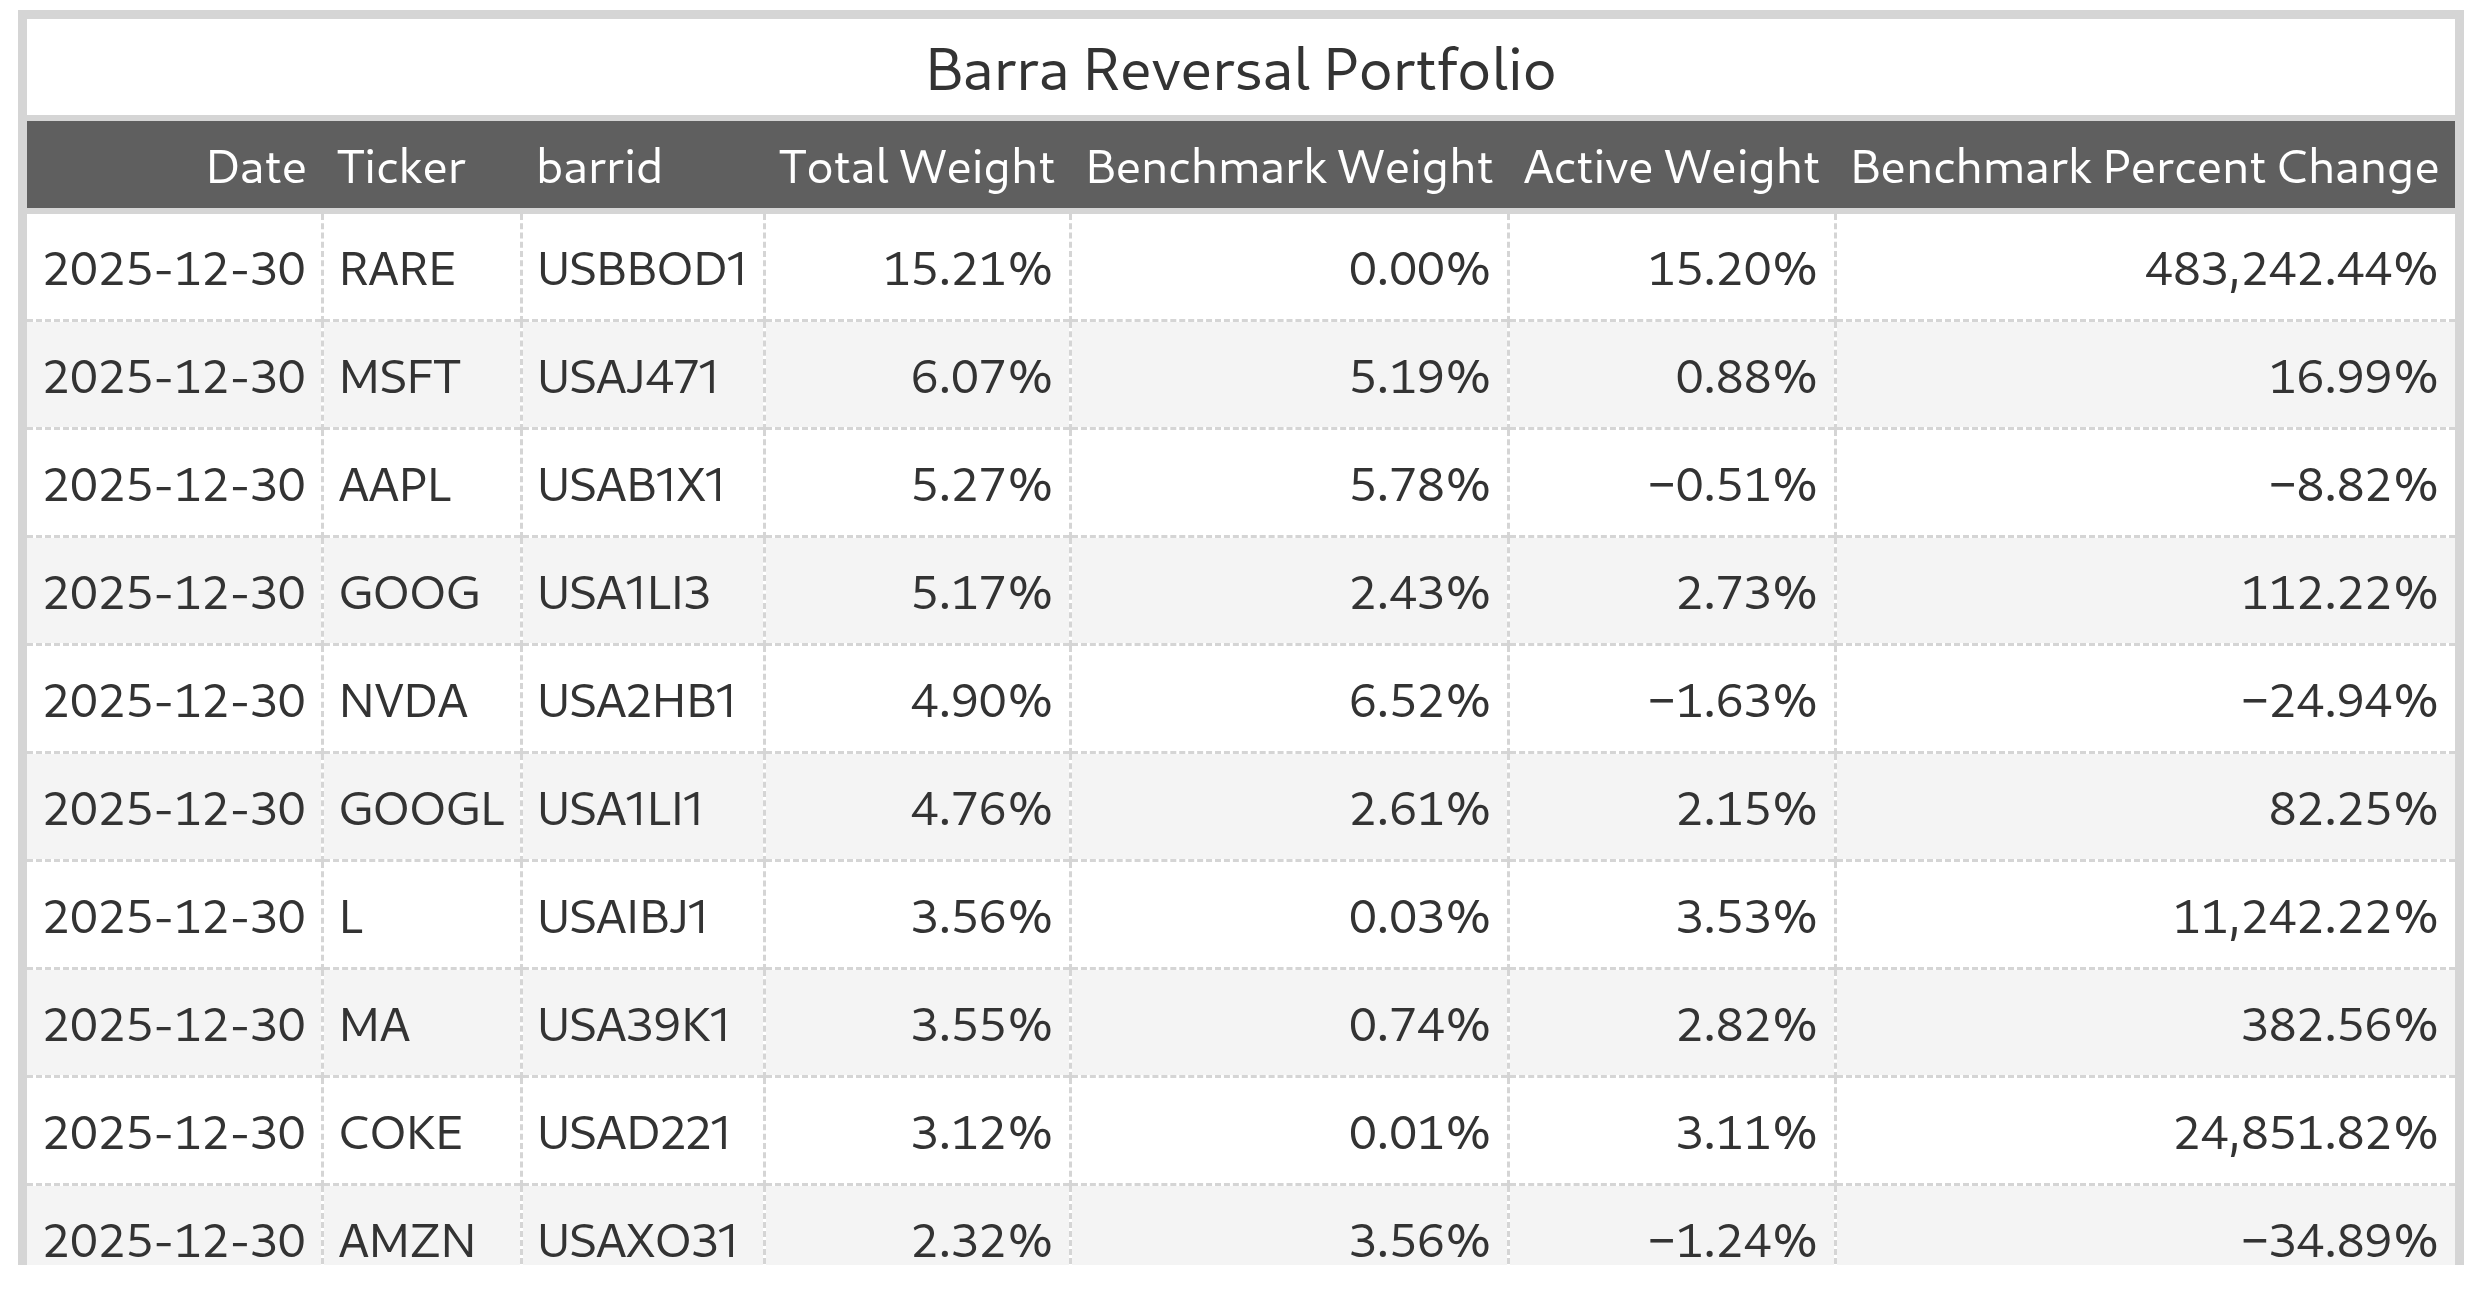
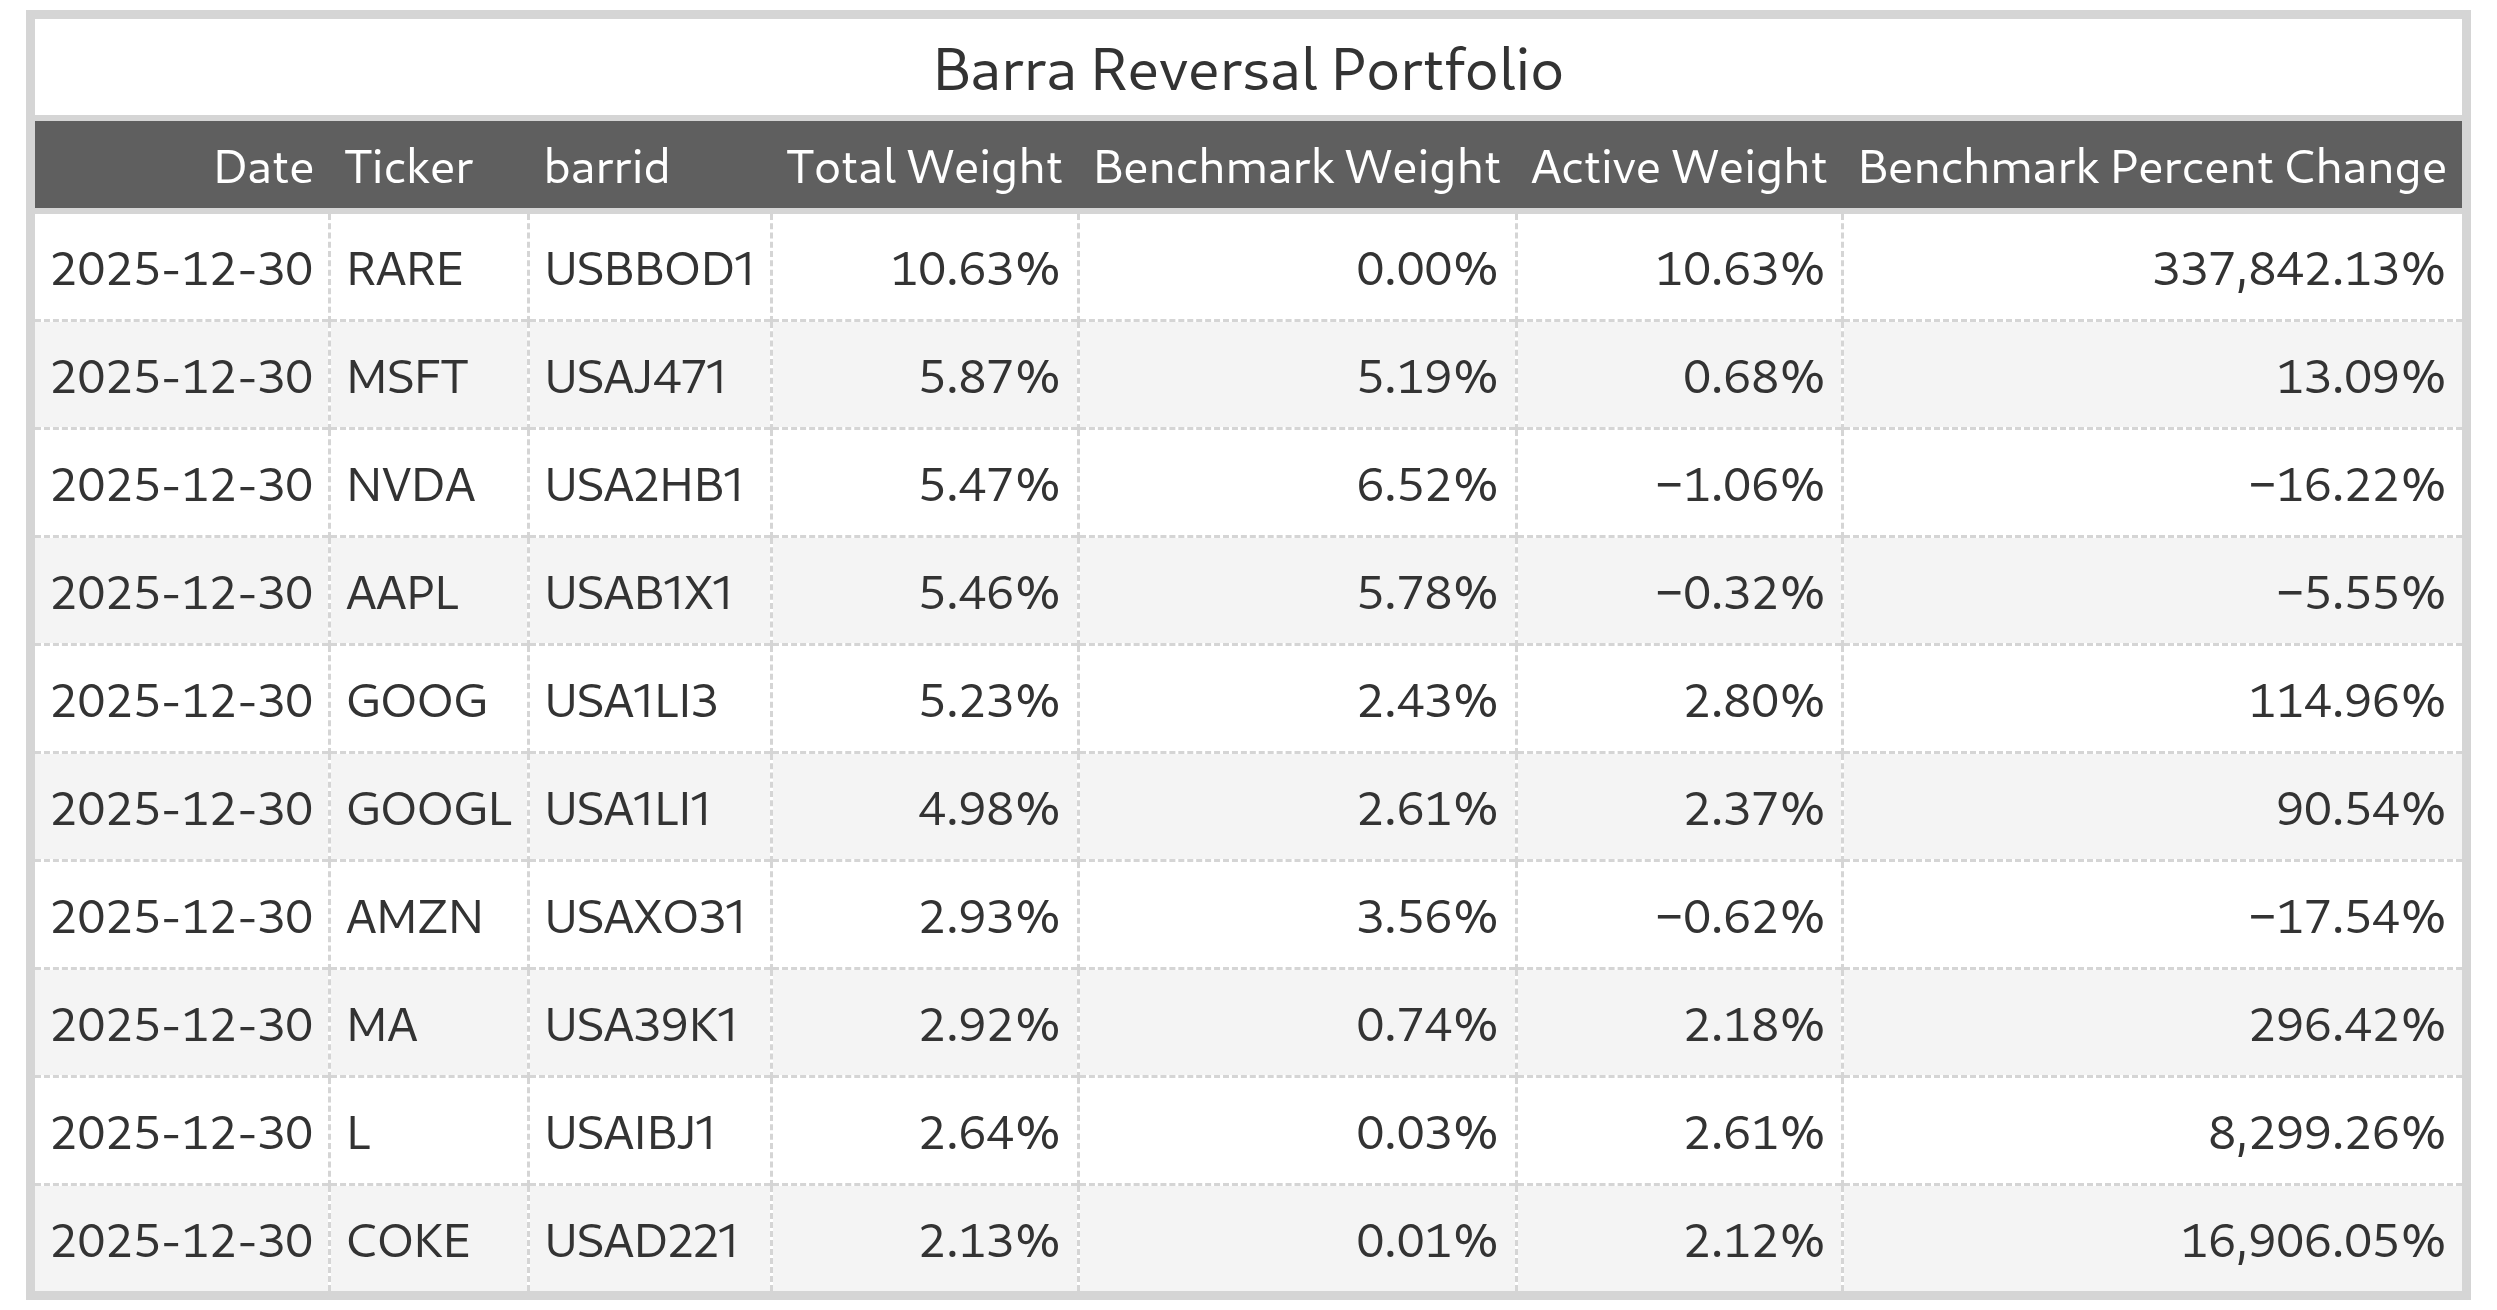
Added active risk forecast to experiment 4. Small fix in experiment 3a.

diff --git a/research/experiments/experiment_4.py b/research/experiments/experiment_4.py
@@ -1,12 +1,12 @@
 import datetime as dt
+from pathlib import Path
 
+import great_tables as gt
+import numpy as np
 import polars as pl
 import sf_quant.data as sfd
 import sf_quant.optimizer as sfo
 from dotenv import load_dotenv
-import great_tables as gt
-from pathlib import Path
-
 
 # Load environment variables
 load_dotenv()
@@ -18,13 +18,13 @@ price_filter = 5
 signal_name = "barra_reversal"
 results_folder = Path("results/experiment_4")
 IC = 0.05
-gamma = 10
+gamma = 15
 n_cpus = 8
 constraints = [
     sfo.FullInvestment(),
     sfo.LongOnly(),
     sfo.NoBuyingOnMargin(),
-    sfo.UnitBeta()
+    sfo.UnitBeta(),
 ]
 
 # Create results folder
@@ -67,38 +67,37 @@ filtered = signals.filter(
     pl.col(signal_name).is_not_null(),
     pl.col("predicted_beta").is_not_null(),
     pl.col("specific_risk").is_not_null(),
-    pl.col('date').eq(end)
+    pl.col("date").eq(end),
 )
 
 # Compute scores
-scores = (
-    filtered
-    .select(
-        'date',
-        'barrid',
-        'predicted_beta',
-        'specific_risk',
-        pl.col(signal_name).sub(pl.col(signal_name).mean()).truediv(pl.col(signal_name).std()).over('date').alias('score'),
-    )
+scores = filtered.select(
+    "date",
+    "barrid",
+    "predicted_beta",
+    "specific_risk",
+    pl.col(signal_name)
+    .sub(pl.col(signal_name).mean())
+    .truediv(pl.col(signal_name).std())
+    .over("date")
+    .alias("score"),
 )
 
 # Compute alphas
 alphas = (
-    scores.with_columns(
-        pl.col('score').mul(IC).mul("specific_risk").alias("alpha")
-    )
+    scores.with_columns(pl.col("score").mul(IC).mul("specific_risk").alias("alpha"))
     .select("date", "barrid", "alpha", "predicted_beta")
     .sort("date", "barrid")
 )
 
 # Set up mean variance optimization
-alphas_np = alphas['alpha'].to_numpy()
-betas_np = alphas['predicted_beta'].to_numpy()
-barrids = alphas['barrid'].to_list()
+alphas_np = alphas["alpha"].to_numpy()
+betas_np = alphas["predicted_beta"].to_numpy()
+barrids = alphas["barrid"].to_list()
 
 # Get covariance matrix
 covariance_matrix = sfd.construct_covariance_matrix(date_=end, barrids=barrids)
-covariance_matrix_np = covariance_matrix.drop('barrid').to_numpy()
+covariance_matrix_np = covariance_matrix.drop("barrid").to_numpy()
 
 # Get optimal weights
 weights = sfo.mve_optimizer(
@@ -107,62 +106,52 @@ weights = sfo.mve_optimizer(
     covariance_matrix=covariance_matrix_np,
     constraints=constraints,
     gamma=gamma,
-    betas=betas_np
+    betas=betas_np,
 )
 
 # Get benchmark weights
-benchmark_weights = (
-    sfd.load_benchmark(
-        start=start,
-        end=end
-    )
-    .filter(
-        pl.col('date').eq(end)
-    )
+benchmark_weights = sfd.load_benchmark(start=start, end=end).filter(
+    pl.col("date").eq(end)
 )
 
 # Get ticker mapping
 tickers = sfd.load_assets_by_date(
-    date_=end,
-    in_universe=True,
-    columns=['barrid', 'ticker']
+    date_=end, in_universe=True, columns=["barrid", "ticker"]
 )
 
 # Compute active weights and pct_change_bmk
 all_weights = (
-    benchmark_weights
-    .rename({'weight': 'bmk_weight'})
-    .join(
-        other=weights.rename({'weight': 'total_weight'}),
-        on=['barrid'],
-        how='left'
-    )
-    .join(
-        other=tickers,
-        on=['barrid'],
-        how='left'
-    )
-    .with_columns(
-        pl.col('total_weight').fill_null(0)
-    )
+    benchmark_weights.rename({"weight": "bmk_weight"})
+    .join(other=weights.rename({"weight": "total_weight"}), on=["barrid"], how="left")
+    .join(other=tickers, on=["barrid"], how="left")
+    .with_columns(pl.col("total_weight").fill_null(0))
     .select(
-        'date',
-        'ticker',
-        'barrid',
-        'total_weight',
-        'bmk_weight',
-        pl.col('total_weight').sub(pl.col('bmk_weight')).alias('active_weight')
+        "date",
+        "ticker",
+        "barrid",
+        "total_weight",
+        "bmk_weight",
+        pl.col("total_weight").sub(pl.col("bmk_weight")).alias("active_weight"),
     )
     .with_columns(
-        pl.col('total_weight').truediv('bmk_weight').sub(1).alias('pct_change_bmk')
+        pl.col("total_weight").truediv("bmk_weight").sub(1).alias("pct_change_bmk")
     )
-    .sort('total_weight', descending=True)
-    .head(10)
+    .sort("total_weight", descending=True)
 )
+
+active_weights_np = all_weights.sort("barrid")["active_weight"].to_numpy()
+barrids = all_weights.sort("barrid")["barrid"].to_list()
+
+# Get covariance matrix
+covariance_matrix = sfd.construct_covariance_matrix(date_=end, barrids=barrids)
+covariance_matrix_np = covariance_matrix.drop("barrid").to_numpy()
+
+active_risk = np.sqrt(active_weights_np @ covariance_matrix_np @ active_weights_np.T)
+print(f"Active Risk: {active_risk * 100:.2}%")
 
 # Create summary table
 table = (
-    gt.GT(all_weights)
+    gt.GT(all_weights.head(10))
     .tab_header(title="Barra Reversal Portfolio")
     .cols_label(
         date="Date",
@@ -170,9 +159,11 @@ table = (
         total_weight="Total Weight",
         bmk_weight="Benchmark Weight",
         active_weight="Active Weight",
-        pct_change_bmk="Benchmark Percent Change"
+        pct_change_bmk="Benchmark Percent Change",
     )
-    .fmt_percent(["total_weight", "bmk_weight", "active_weight", "pct_change_bmk"], decimals=2)
+    .fmt_percent(
+        ["total_weight", "bmk_weight", "active_weight", "pct_change_bmk"], decimals=2
+    )
     .opt_stylize(style=4, color="gray")
 )
 

diff --git a/research/experiments/experiment_3a.py b/research/experiments/experiment_3a.py
@@ -22,6 +22,9 @@ n_cpus = 8
 constraints = ["ZeroBeta", "ZeroInvestment"]
 results_folder = Path("results/experiment_3")
 
+# Create results folder
+results_folder.mkdir(parents=True, exist_ok=True)
+
 # Get data
 data = sfd.load_assets(
     start=start,
